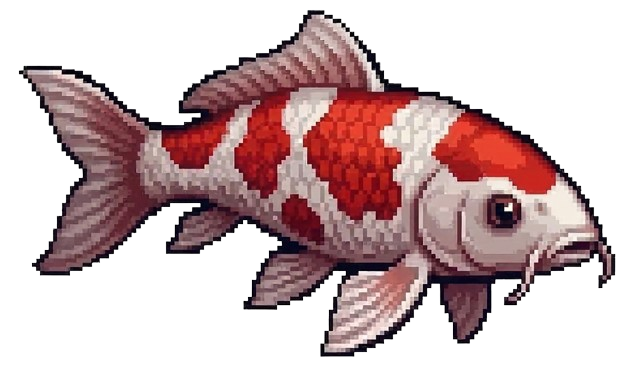
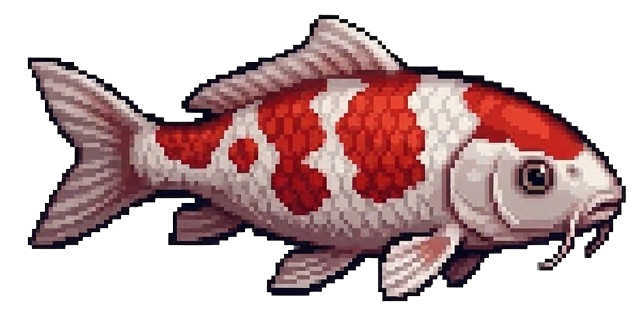
koi fish

diff --git a/docs/js/SeaItem.js b/docs/js/SeaItem.js
@@ -158,8 +158,8 @@ class Treasure extends SeaItem {
 // ─── 珍珠：深海底层稀有高价值物品，极小体积，极难抓取 ───
 class Pearl extends SeaItem {
     constructor(x, y) {
-        // 高分值（500-800），极轻（容易拉上来），但碰撞体积极小
-        let val = floor(random(500, 800));
+        // 高分值，极轻，但碰撞体积极小
+        let val = floor(random(400, 600));
         super(x, y, "Pearl", val, 1.5);
         this.width = 22;
         this.height = 22;
@@ -247,6 +247,55 @@ class Stone extends SeaItem {
             );
         }
 
+        pop();
+        this.drawScoreText();
+    }
+}
+
+// 后期可选：锦鲤移出屏幕后删除
+class KoiFish extends BaseFish {
+    constructor(y) {
+        // 参数
+        let val = random([777, 888]);
+        // 随机从屏幕左边(-100)或右边(width+100)生成
+        let spawnX = random() > 0.5 ? -100 : width + 100;
+        super(spawnX , y, "KoiFish", val, 4, 70);  // 体积，重量略大于小鱼
+
+        if (typeof koiFishImgs !== "undefined" && koiFishImgs.length > 0 && koiFishImgs[0]) {
+            let img = koiFishImgs[0];
+            let targetWidth = 70; 
+            let targetHeight = targetWidth * (img.height / img.width);
+            // 重新赋值高宽
+            this.width = targetWidth;
+            this.height = targetHeight;
+        }
+
+        this.speed = 3; // 移速较快
+        this.direction = spawnX < 0 ? 1 : -1; // 在左边就向右游，在右边就向左游
+    }
+
+    // 重写游动逻辑：一直往前游，不碰壁回头
+    swim() {
+        this.position.x += this.speed * this.direction;
+    }
+    // 重写绘制逻辑：加入动画和翻转
+    draw() {
+        push();
+        translate(this.position.x, this.position.y);
+        // 如果鱼默认是朝右的，当它向左游(direction === -1)时，水平翻转
+        if (this.direction === -1) {
+            scale(-1, 1);
+        }
+        imageMode(CENTER);
+        // 实现 2 帧动画的切换 (每 15 帧换一次图)
+        if (typeof koiFishImgs !== "undefined" && koiFishImgs.length === 2) {
+            let frame = Math.floor(frameCount / 15) % 2;
+            image(koiFishImgs[frame], 0, 0, this.width, this.height);
+        } else {
+            // 兜底方案：如果没有图片，画个金色的椭圆
+            fill(255, 215, 0);
+            ellipse(0, 0, this.width, this.height * 0.5);
+        }
         pop();
         this.drawScoreText();
     }

diff --git a/docs/js/ShopManager.js b/docs/js/ShopManager.js
@@ -15,6 +15,7 @@ class ShopManager {
             { x: width / 2 + 300, y: height / 2 + 110 }, // Submarine
             { x: width / 2 - 120, y: height / 2 - 140 }, // Clover
             { x: width / 2, y: height / 2 - 140 }, // Fishbone Collector
+            { x: width / 2 + 180, y: height / 2 + 110 }, // Lucky Coin
         ];
 
         this.hitRadius = 60; // 判定范围
@@ -54,6 +55,11 @@ class ShopManager {
             new ShopItem("Fishbone Collector",
                 500,
                 "Museum love old fishbone and stone!\nFishbone:$20~$50, Stone value+100%.\n[Permanent upgrade]",
+                levelNum
+            ),
+            new ShopItem("Lucky Coin",
+                10,
+                "A rare Koi Fish will appear\nat 10s in the next level!\n[period: 1 level]",
                 levelNum
             )
         ];
@@ -195,6 +201,13 @@ class ShopManager {
                 fishboneCollectorImg
             ) {
                 image(fishboneCollectorImg, pos.x, pos.y, imgSize, imgSize);
+            }
+            else if (
+                item.name === "Lucky Coin" && 
+                typeof luckyCoinImg !== "undefined" && 
+                luckyCoinImg
+            ) {
+                image(luckyCoinImg, pos.x, pos.y, imgSize, imgSize);
             }
             pop();
 

diff --git a/docs/js/LevelManager.js b/docs/js/LevelManager.js
@@ -458,9 +458,20 @@ class LevelManager {
                 if (shark.done) this.sharks.splice(i, 1);
             }
         }
+        // 锦鲤
+        let timePassed = this.timeLimit - this.timeRemaining;
+        // 关卡内10s后生成锦鲤
+        if (this.player.hasLuckyCoin && timePassed >= 10 && !this.koiSpawned) {
+            let koi = new KoiFish(random(350, 450));  // 生成高度350~450，中浅层区
+            this.activeItems.push(koi);
+            this.koiSpawned = true; // 标记本关已生成
+            this.player.hasLuckyCoin = false; // 消耗掉道具
+            // 后期增加：相关音效
+        }
 
         return this.checkWinCondition();
     }
+    
 
     checkWinCondition() {
         if (this.timeRemaining <= 0) {

diff --git a/docs/js/ShopItem.js b/docs/js/ShopItem.js
@@ -65,5 +65,10 @@ class ShopItem {
         if (this.name === "Fishbone Collector") {
             levelManager.player.hasFishboneCollector = true;
         }
+
+        // 【新增】：幸运金币效果，确保关卡管理器能识别到
+        if (this.name === "Lucky Coin") {
+            levelManager.player.hasLuckyCoin = true; 
+        }
     }
 }

diff --git a/docs/sketch.js b/docs/sketch.js
@@ -10,6 +10,8 @@ let laserImg;
 let clockImg;
 let cloverImg;
 let fishboneCollectorImg;
+let luckyCoinImg; 
+let koiFishImgs = [];
 let shopBgImg;
 let titleBgm;
 let shopBgm; // 【修复】补充声明 shopBgm，防止黑屏报错
@@ -50,6 +52,9 @@ function preload() {
     clockImg = loadImage("assets/SandClock.png");
     cloverImg = loadImage("assets/Clover.png");
     fishboneCollectorImg = loadImage("assets/FishboneCollector.png");
+    luckyCoinImg = loadImage('assets/Lucky.png');
+    koiFishImgs.push(loadImage('assets/koifish1.png'));
+    koiFishImgs.push(loadImage('assets/koifish2.png'));
     shopBgImg = loadImage("assets/Shop.png");
     titleBgm = loadSound("assets/Ocean.mp3");
     shopBgm = loadSound("assets/ShopGen3.mp3");

diff --git a/docs/js/Player.js b/docs/js/Player.js
@@ -8,6 +8,7 @@ class Player {
         this.hasSubmarine = false;
         this.hasClover = false;
         this.hasFishboneCollector = false;
+        this.hasLuckyCoin = false;
     }
 
     addScore(amount) {